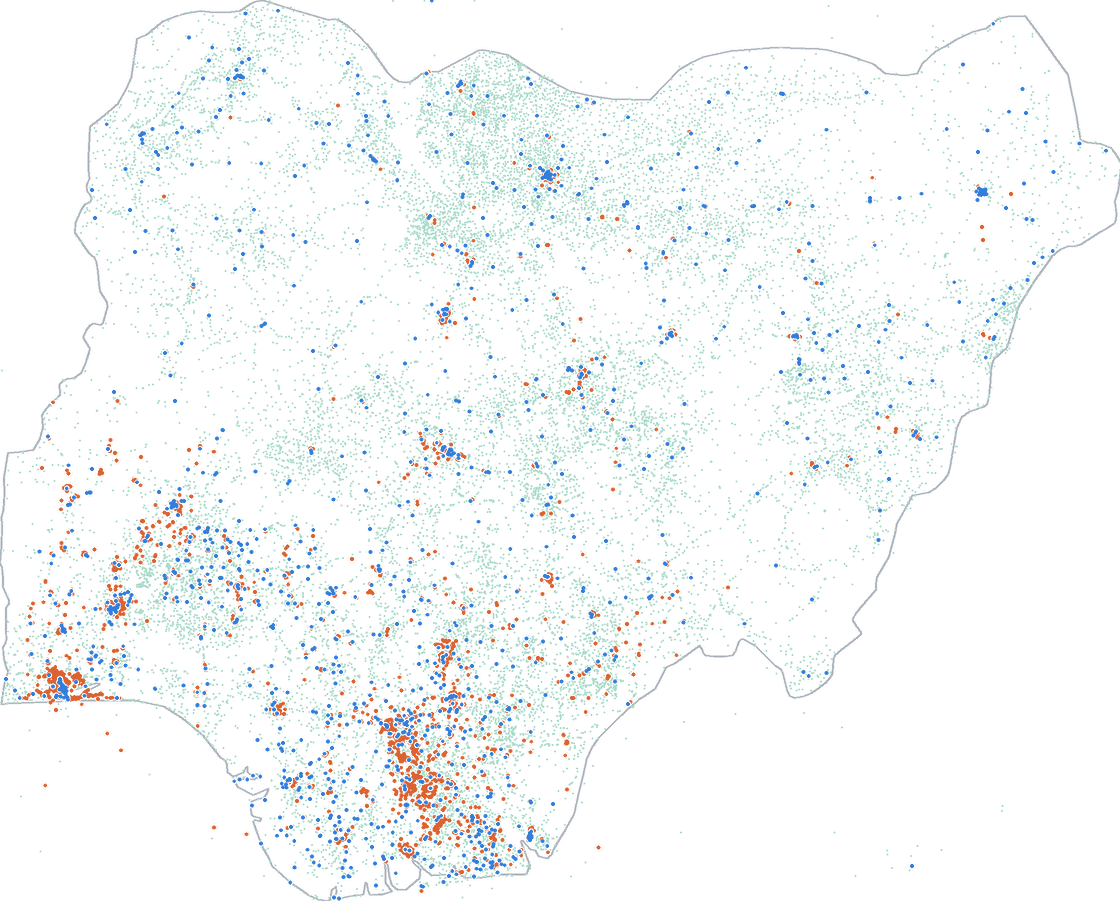
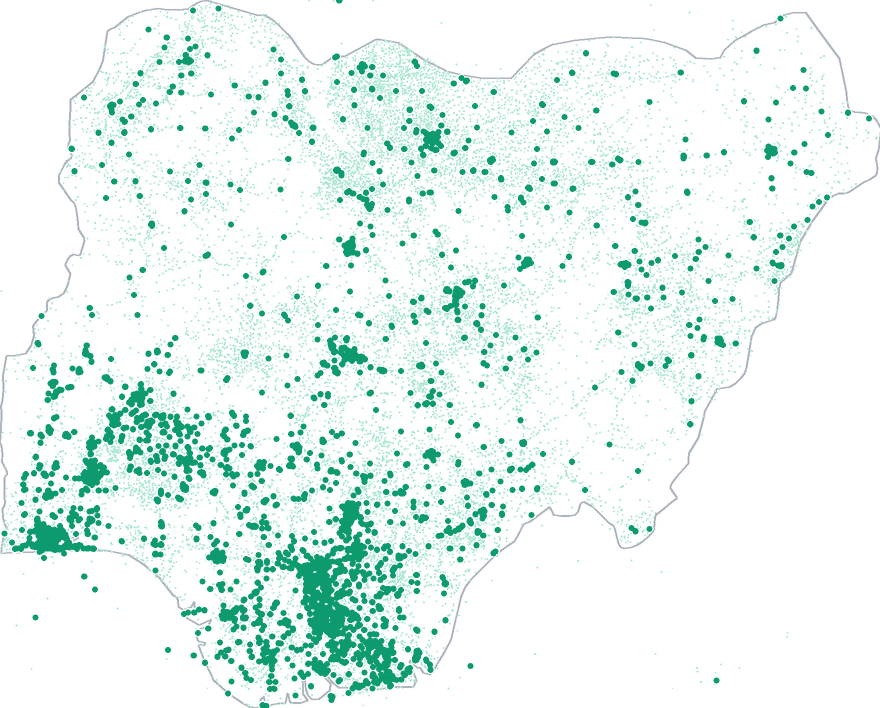
datasets: green-on-green facility map at half size, drop figure notes
Map is now PHC vs hospital rather than a three-way split with ownership,
in two steps of one green - emerald 500 and 600, 0.7 degrees apart in hue.

Getting that pair right needed measuring rather than picking: a single
transparent PNG serves both themes, and a deep hospital step that looks
right on white (#047857) collapses into #17181c, worst-case separation
0.117 falling to 0.040 as the mesh gets denser. A translucent mesh tracks
its surface while an opaque mark does not, so holding the hospital step
near mid-lightness separates in BOTH directions: 0.205 worst case.

Half width needed bigger marks, not just a smaller canvas - at 440 px the
downscale averages small dark dots towards the surface until the two
tones stop reading. Sizes were chosen at display resolution.

Two same-hue swatches are also hard to tell apart in a legend, so the key
now repeats the marks: round, and sized as they are drawn.

Per-figure captions are gone from both records.

diff --git a/assets/css/custom.css b/assets/css/custom.css
@@ -618,7 +618,13 @@
 .dataset-panel-grid--4 { grid-template-columns: repeat(4, minmax(0, 1fr)); }
 .dataset-panel-grid--3 { grid-template-columns: repeat(3, minmax(0, 1fr)); }
 .dataset-panel-grid--2 { grid-template-columns: repeat(2, minmax(0, 1fr)); }
-.dataset-panel-grid--1 { grid-template-columns: minmax(0, 1fr); }
+/* A lone figure has no neighbour to be read against, so it does not need the
+ * full column - half width sits better against the text. */
+.dataset-panel-grid--1 {
+  grid-template-columns: minmax(0, 1fr);
+  max-width: 50%;
+  margin: 0 auto;
+}
 
 .dataset-panel img {
   display: block;
@@ -731,6 +737,12 @@
   margin-top: 0.9rem;
 }
 
+/* A half-width figure is centred, so its legend has to follow it rather than
+ * hang off the left margin. */
+.dataset-panel-grid--1 + .dataset-legend {
+  justify-content: center;
+}
+
 .dataset-legend-label {
   font-size: 0.6875rem;
   font-weight: 700;
@@ -767,6 +779,13 @@
   height: 0.85rem;
   border-radius: 0.15rem;
   border: 1px solid rgb(0 0 0 / 0.12);
+}
+
+/* Point maps get round swatches sized like the marks they stand for. */
+.dataset-swatch--dot {
+  border-radius: 50%;
+  border-color: transparent;
+  flex: none;
 }
 
 /* provenance + access */
@@ -863,6 +882,11 @@
   .dataset-panel-grid--3,
   .dataset-panel-grid--2 {
     grid-template-columns: repeat(2, minmax(0, 1fr));
+  }
+
+  /* Half a phone-width column is not a map any more. */
+  .dataset-panel-grid--1 {
+    max-width: none;
   }
 
   .dataset-part-text {

diff --git a/layouts/_partials/views/dataset.html b/layouts/_partials/views/dataset.html
@@ -81,11 +81,17 @@
 
           {{/* Scale legend, for panels that encode magnitude by shade. */}}
           {{ with $part.legend }}
+            {{ $legend := . }}
             <div class="dataset-legend">
               {{ with .label }}<span class="dataset-legend-label">{{ . }}</span>{{ end }}
               <ul>
                 {{ range .items }}
-                  <li><span class="dataset-swatch" style="background:{{ .color }}"></span>{{ .text }}</li>
+                  {{/* `dots` + a per-item `size` let the key repeat the marks it
+                       stands for. Two steps of one hue are hard to tell apart in
+                       two identical squares, but not when the swatches differ in
+                       shape and size the way the marks do. */}}
+                  <li><span class="dataset-swatch{{ if $legend.dots }} dataset-swatch--dot{{ end }}"
+                            style="background:{{ .color }}{{ with .size }};width:{{ . }};height:{{ . }}{{ end }}"></span>{{ .text }}</li>
                 {{ end }}
               </ul>
             </div>

diff --git a/scripts/build_health_maps.py b/scripts/build_health_maps.py
@@ -3,8 +3,8 @@
 Regenerate the Nigerian health facility map shown on /datasets/.
 
 One combined map: the national outline, the primary health care mesh underneath,
-and the hospitals on top split by ownership. Output goes to
-assets/media/datasets/, where Hugo picks it up.
+and the hospitals on top. Output goes to assets/media/datasets/, where Hugo
+picks it up.
 
     python3 scripts/build_health_maps.py
 
@@ -20,24 +20,34 @@ SOURCE DATA (not in this repo - it is not openly published):
 
 DESIGN NOTES
 
-  * ONE map rather than a facet set, unlike the school maps next door. Three
-    series is exactly the cap a point map allows - it is an all-pairs form, so
-    every pair of hues has to separate, not just neighbours - and the question
-    here is where the three overlap, which small multiples would hide.
+  * ONE map rather than a facet set, unlike the school maps next door: the
+    question here is where the two layers of the system overlap, which small
+    multiples would hide.
 
-  * Palette: #2a78d6 / #d95926 / #199e70. Validated with the dataviz validator
-    at --pairs all against BOTH surfaces, #ffffff and #17181c, and it passes
-    every check on both with no warnings - which is what lets one transparent
-    PNG serve light and dark mode. The blue/orange pair is the strongest of the
-    three (CVD dE 25.4, normal 32.3), so it carries public vs private, the
-    distinction a reader most needs to make. Aqua takes the PHC mesh, whose
-    weaker pairings (dE 9.4 vs orange) are backed by a large size difference -
-    identity there never rests on hue alone.
+  * Palette: two steps of one green, emerald 500 #10b981 for primary care and
+    emerald 600 #059669 for hospitals - 0.7 degrees apart in hue, so it really
+    is green on green. Level of care is ORDERED, so this is an ordinal ramp
+    rather than a categorical pair.
 
-  * Size encodes TYPE, not ownership: both hospital classes are drawn at the
-    same radius. Only the draw order differs - private (4,645) first, public
-    (1,354) last - so the rarer class is not buried under the commoner one.
-    That is a rendering concession, not an encoding; the marks are identical.
+    The thing that decides these values is that ONE transparent PNG has to
+    serve both themes. A translucent mesh tracks whatever surface it sits on -
+    pale on white, dim on dark - while an opaque mark does not, so the pair
+    separates in both directions as long as the hospital step sits near the
+    middle. Worst-case separation across the two surfaces, in OKLab L:
+
+        mesh @a90 + #059669   0.205   <- chosen
+        mesh @a90 + #047857   0.117
+        mesh @a130 + #047857  0.040   (invisible on dark)
+
+    A deeper hospital step looks better in isolation on white and then
+    disappears into #17181c, which is exactly the trap. #059669 is 3.8:1 on
+    white and 4.7:1 on dark, so it clears both surfaces on its own too.
+
+  * Size reinforces the same order: hospitals are drawn much larger, so the two
+    never rely on colour alone - and the legend repeats that size difference.
+    The gap has to be big because the map is shown at half the column width; at
+    440 px the downscale averages a small mark towards the surface. Sizes were
+    picked by rendering at the real display size and looking, not at 1:1.
 
   * Backgrounds are transparent and all text lives in HTML, so labels stay
     crisp, themed and translatable.
@@ -61,13 +71,13 @@ NE_URL = ("https://raw.githubusercontent.com/nvkelso/natural-earth-vector/"
 
 # Same frame as build_school_maps.py - do not change one without the other.
 LON0, LON1, LAT0, LAT1 = 2.6860, 14.6197, 4.2774, 13.8729
-WIDTH, SUPERSAMPLE = 1120, 2
+# The map is shown at half the text column, ~440 CSS px, so 880 is a 2x asset.
+WIDTH, SUPERSAMPLE = 880, 2
 
-#            rgb                    radius  alpha
-PHC     = ((0x19, 0x9E, 0x70), 1.5, 95)
-PRIVATE = ((0xD9, 0x59, 0x26), 3.4, 235)
-PUBLIC  = ((0x2A, 0x78, 0xD6), 3.4, 245)
-GAP = 1.7      # surface gap punched around every hospital mark, in render px
+#             rgb                    radius  alpha
+PHC      = ((0x10, 0xB9, 0x81), 1.4, 90)
+HOSPITAL = ((0x05, 0x96, 0x69), 5.6, 250)
+GAP = 2.4      # surface gap punched around every hospital mark, in render px
 
 
 def nigeria_ring(cache="/tmp/ne50_countries.geojson"):
@@ -106,13 +116,8 @@ def main():
     print(f"  self-geocoded rows kept: {(inside.geolocated_R == 1).sum():,} "
           f"of {(df.geolocated_R == 1).sum():,}")
 
-    layers = [
-        ("PHC",              inside[inside.facility_type == "PHC"],                       PHC),
-        ("Private hospital", inside[(inside.facility_type == "Hospital")
-                                    & (inside.ownership == "Private")],                   PRIVATE),
-        ("Public hospital",  inside[(inside.facility_type == "Hospital")
-                                    & (inside.ownership == "Public")],                    PUBLIC),
-    ]
+    phc = inside[inside.facility_type == "PHC"]
+    hospital = inside[inside.facility_type == "Hospital"]
 
     img = Image.new("RGBA", (WIDTH * SUPERSAMPLE, height * SUPERSAMPLE), (0, 0, 0, 0))
     draw = ImageDraw.Draw(img, "RGBA")           # composites onto what is there
@@ -125,26 +130,19 @@ def main():
             x, y = project(lon, lat)
             fn([x - r, y - r, x + r, y + r])
 
-    hosp = [(sub, spec) for name, sub, spec in layers if name != "PHC"]
+    # PHC mesh first; then every hospital clears a gap in it before any hospital
+    # is drawn, so the gap reads as page surface in either theme and no hospital
+    # erases its neighbour.
+    rgb, r, alpha = PHC
+    marks(phc, r, lambda box: draw.ellipse(box, fill=rgb + (alpha,)))
 
-    # PHC mesh first, then every hospital mark clears a gap in it before any
-    # hospital is drawn - so the gap reads as page surface in either theme, and
-    # no hospital erases another of the same pass.
-    for name, sub, (rgb, r, alpha) in layers:
-        if name != "PHC":
-            continue
-        marks(sub, r, lambda box, c=rgb + (alpha,): draw.ellipse(box, fill=c))
+    rgb, r, alpha = HOSPITAL
+    marks(hospital, r + GAP, lambda box: punch.ellipse(box, fill=(0, 0, 0, 0)))
+    marks(hospital, r, lambda box: draw.ellipse(box, fill=rgb + (alpha,)))
 
-    for sub, (_, r, _) in hosp:
-        marks(sub, r + GAP, lambda box: punch.ellipse(box, fill=(0, 0, 0, 0)))
-
-    for i, (sub, (rgb, r, alpha)) in enumerate(hosp):
-        if i:   # re-clear, so public and private also keep a gap between them
-            marks(sub, r + GAP, lambda box: punch.ellipse(box, fill=(0, 0, 0, 0)))
-        marks(sub, r, lambda box, c=rgb + (alpha,): draw.ellipse(box, fill=c))
-
-    for label, sub, (rgb, _, _) in layers:
-        print(f"  {label:18s} {len(sub):7,} points  "
+    for label, sub, (rgb, _, _) in [("Primary health care", phc, PHC),
+                                    ("Hospital", hospital, HOSPITAL)]:
+        print(f"  {label:20s} {len(sub):7,} points  "
               f"#{rgb[0]:02x}{rgb[1]:02x}{rgb[2]:02x}")
 
     os.makedirs(OUT, exist_ok=True)

diff --git a/content/datasets/health-facility-register/index.md b/content/datasets/health-facility-register/index.md
@@ -34,36 +34,19 @@ dataset:
         point, and I keep that subset as a separate file.
       panels:
         - image: 'datasets/nigeria-health-facilities.png'
-          alt: 'Map of Nigeria showing primary health care centres as small green dots, with public hospitals in blue and private hospitals in orange drawn on top'
+          alt: 'Map of Nigeria showing primary health care centres as small light green dots and hospitals as larger dark green dots'
       legend:
-        label: 'Facility type'
+        label: 'Mapped facilities'
+        dots: true
         items:
-          - {color: '#2a78d6', text: 'Public hospital (1,354)'}
-          - {color: '#d95926', text: 'Private hospital (4,645)'}
-          - {color: '#199e70', text: 'Primary health care (35,324)'}
-      caption: >
-        One dot per facility. The small green marks are the primary health care
-        mesh, which reaches almost every ward in the country; the larger dots
-        are hospitals, coloured by who runs them. The split is the striking
-        part — private hospitals cluster hard in the south west and the
-        south east, around Lagos, Ibadan, Onitsha and Aba, while public
-        hospitals are spread thinly but evenly right across the north. Counts
-        in the legend are the facilities that carry a usable point, 98.2% of the
-        register; the primary health care mesh is itself 29,083 public and
-        6,241 private, a split the map does not draw.
+          - {color: '#10b981', size: '0.45rem', text: 'Primary health care (35,324)'}
+          - {color: '#059669', size: '0.8rem', text: 'Hospital (5,999)'}
       collection: >
         Downloaded from the Federal Ministry of Health's Health Facility
-        Registry at hfr.e4eweb.space while the portal was still up — it has
-        since gone offline, so the register as it stood is now hard to come by.
-        About one facility in eight arrived with no coordinate at all, 5,070 in
-        total, and I geocoded those myself in R: three address strings each,
-        from the bare facility name up to name, ward, local government area and
-        state, every one of them put through both the Google Maps geocoder via
-        `ggmap` and OpenStreetMap's Nominatim, and then reconciled. 4,391 came
-        back with a usable point — 87% of what was attempted, and only nine of
-        those landed outside the national outline. The flag marking which points
-        came from that pass travels with the data, so you can drop them if your
-        design needs only the register's own coordinates.
+        Registry at hfr.e4eweb.space, which has since gone offline. About one
+        facility in eight came with no coordinate, and I geocoded those myself
+        in R through Google Maps and OpenStreetMap, recovering 4,391 of them.
+        A flag in the data marks which points came from that pass.
 
   closing: 'It is the backbone of my ongoing work on health facility expansion and fertility in Nigeria.'
   access: >

diff --git a/content/datasets/school-censuses/index.md b/content/datasets/school-censuses/index.md
@@ -48,16 +48,6 @@ dataset:
           label: 'Senior Secondary'
           value: '3,242'
           alt: 'Map of Nigeria showing the location of senior secondary schools'
-      caption: >
-        Each dot is one school. Primary provision reaches almost every
-        settlement, while senior secondary schools concentrate in the cities and
-        along the main corridors — the spatial gap that motivates the education
-        chapters of my thesis. The counts below each map are the register's
-        totals; the dots are those with usable coordinates, which is 97% of
-        pre-primary, 95% of primary and 94% of junior secondary records but only
-        54% of senior secondary — that last panel is the register's weakest
-        geocoding and the senior secondary map should be read as indicative
-        rather than complete.
       collection: >
         Web-scraped from [NEMIS](https://nemiserp.com), the national education
         management information system, with
@@ -95,13 +85,6 @@ dataset:
           - {color: '#a78bfa', text: '20–39'}
           - {color: '#7c3aed', text: '40–79'}
           - {color: '#5b21b6', text: '80+'}
-      caption: >
-        Mapped at commune level — 544 communes — with all three panels on one
-        absolute scale, so they can be read against each other: middle and
-        secondary schools are scarce almost everywhere, while primary provision
-        is dense across the country. 98.8% of the 18,952 establishments matched
-        a commune boundary; the pale areas are the remainder, mostly communes
-        that OpenStreetMap does not yet carry.
       collection: >
         Obtained directly from officials at the Ministry of Education. **Access
         to the Senegalese census is subject to their agreement**, so a request
